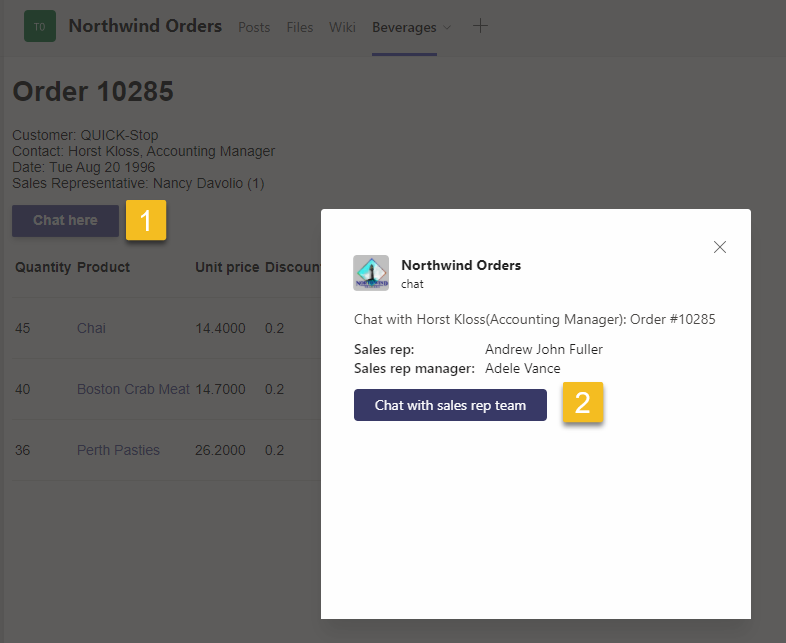
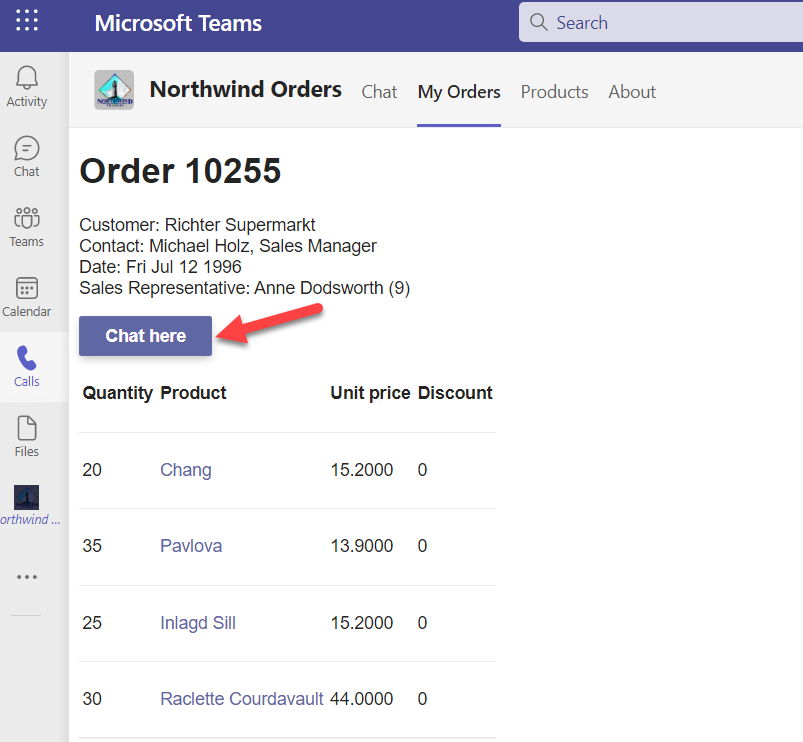
Lab instruction for A07

diff --git a/lab-instructions/aad/DeeplinksTaskModules.md b/lab-instructions/aad/DeeplinksTaskModules.md
@@ -438,10 +438,14 @@ Once you are in the application, go to `My orders` page and select any order as 
 <img src="../../assets/07-004-selectorder.png?raw=true" alt="Order details page"/>
 This will take you to the `Order details page`.
 
-Notice the button `Chat here`1⃣. This button opens a dialogue 2⃣ to show the Sales representative and their team.
+Notice the button `Chat here`1⃣. This button opens a dialog(task module) 2⃣ to display the Sales representative and their team.
+
 <img src="../../assets/07-005-chat.png?raw=true" alt="chat"/>
 
-Select `Chat with the sales rep team` button, this will initiate a group chat with the user, and the sales rep team.
+In the dialog,  select `Chat with the sales rep team` button, this will initiate a group chat with the user and the sales rep team using deep linking.
+
+<img src="../../assets/07-005-chat01.png?raw=true" alt="chat"/>
+
     > Manually close the dialog once you are in the group chat.
 
 1. You'll see that the chat is initiated to a group (Sales rep and the sales rep's manager)

diff --git a/src/extend-with-capabilities/aad/DeeplinksTaskModules/README.md b/src/extend-with-capabilities/aad/DeeplinksTaskModules/README.md
@@ -3,8 +3,14 @@
 ## Summary
 
 This sample is an enhancement of the personal tab created from using the core teams application built over the course of labs [A01](../../../../lab-instructions/aad/A01-begin-app.md)-[A03](../../../../lab-instructions/aad/A03-after-apply-styling.md).
-In this sample, users can open a dialog(task module) from within the personal tab to view north wind orders' sales team information along with an option to open a group chat using deep linking to discuss a particular order with the sale team.
 
+In this sample, users can open a dialog(task module) from within the personal tab to view north wind orders' sales team information.
+
+<img src="../../../../assets/07-005-chat.png?raw=true" alt="chat"/>
+
+And in the dialog, a button to initiate a group chat using deep linking to discuss a particular order with the sale team.
+
+<img src="../../../../assets/07-005-chat01.png?raw=true" alt="chat"/>
 
 ## Version history
 
